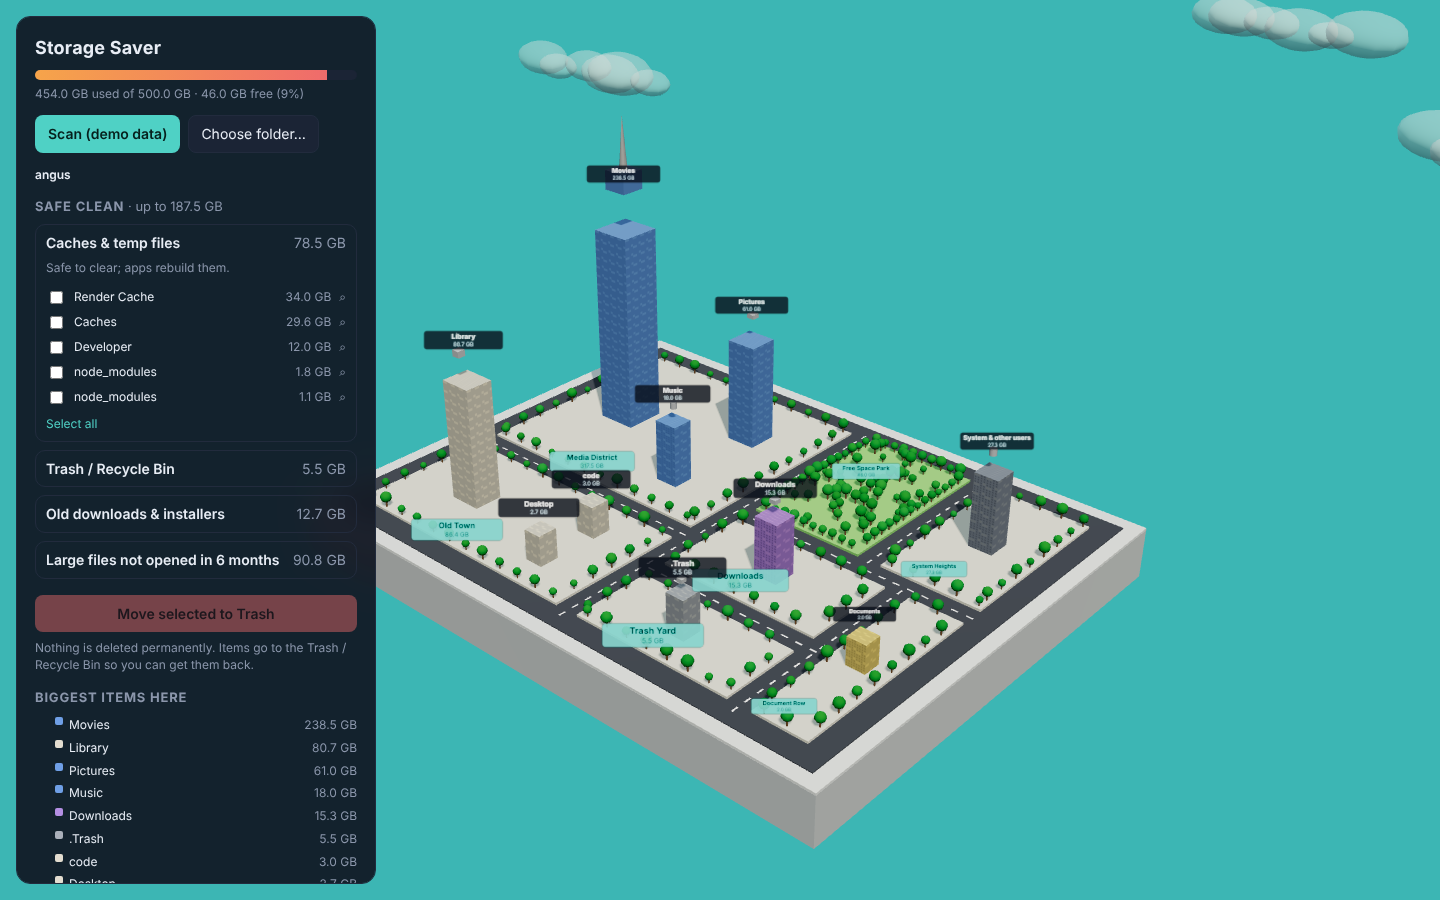
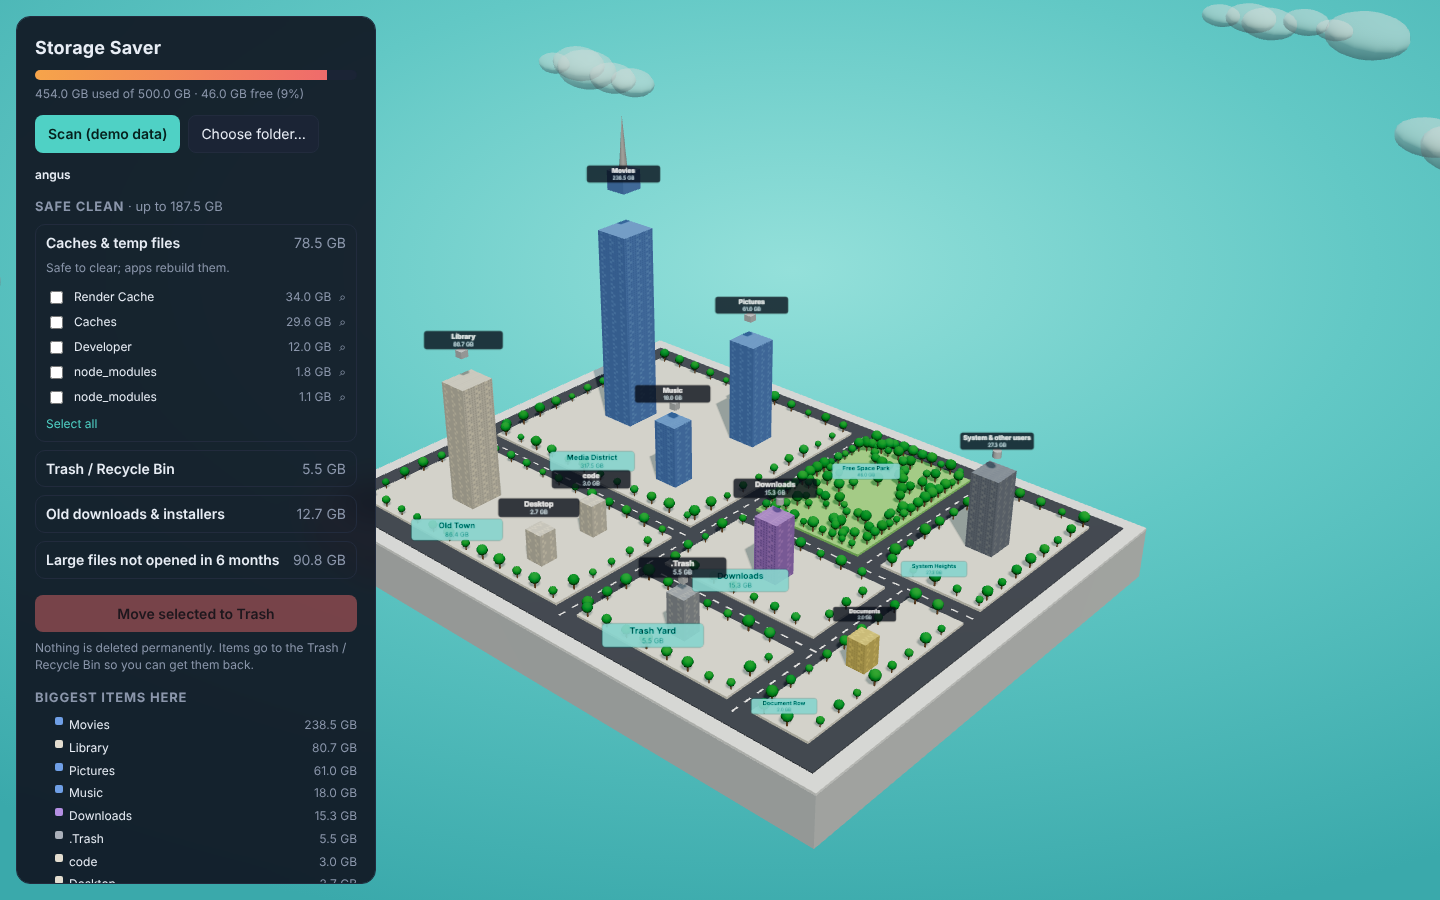
Sky: radial teal gradient behind a transparent canvas
Claude-Session: https://claude.ai/code/session_01S4hEwfN8N2XMNniWz1wTJB

diff --git a/src/renderer/app.js b/src/renderer/app.js
@@ -63,7 +63,8 @@ const state = { disk: null, tree: null, suggestions: null, path: [], selected: n
 // Scene setup
 // ---------------------------------------------------------------------------
 const container = document.getElementById('scene');
-const renderer = new THREE.WebGLRenderer({ antialias: true, powerPreference: 'high-performance' });
+const renderer = new THREE.WebGLRenderer({ antialias: true, alpha: true, powerPreference: 'high-performance' });
+renderer.setClearColor(0x000000, 0); // the CSS gradient behind the canvas is the sky
 renderer.setPixelRatio(Math.min(window.devicePixelRatio, 2));
 renderer.setSize(window.innerWidth, window.innerHeight);
 renderer.shadowMap.enabled = true;
@@ -74,8 +75,8 @@ container.appendChild(renderer.domElement);
 
 const SKY = 0x3cb6b4;
 const scene = new THREE.Scene();
-scene.background = new THREE.Color(SKY);
-scene.fog = new THREE.Fog(SKY, 320, 700);
+scene.background = null;
+scene.fog = new THREE.Fog(0x4fbdbb, 320, 700);
 
 const camera = new THREE.PerspectiveCamera(32, window.innerWidth / window.innerHeight, 0.5, 2000);
 camera.position.set(165, 150, 185);

diff --git a/src/renderer/styles.css b/src/renderer/styles.css
@@ -1,5 +1,5 @@
 :root {
-  --bg: #3cb6b4;
+  --bg: #3aa9ab;
   --panel: rgba(16, 22, 34, 0.92);
   --border: #222b3d;
   --text: #e8edf5;
@@ -18,7 +18,7 @@
 * { box-sizing: border-box; }
 [hidden] { display: none !important; }
 html, body { margin: 0; height: 100%; background: var(--bg); color: var(--text); font: 14px/1.4 -apple-system, "Segoe UI", system-ui, sans-serif; overflow: hidden; }
-#scene { position: absolute; inset: 0; }
+#scene { position: absolute; inset: 0; background: radial-gradient(ellipse 90% 75% at 55% 30%, #94e0da 0%, #62c8c5 45%, #3aa9ab 100%); }
 #scene canvas { display: block; }
 
 #panel {
